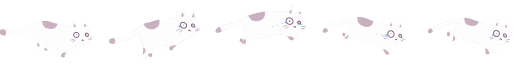
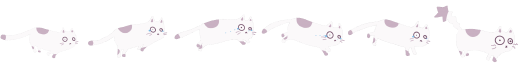
updated the spritesheet

diff --git a/src/scenes/PreloaderScene.ts b/src/scenes/PreloaderScene.ts
@@ -9,8 +9,8 @@ export default class Preloader extends Phaser.Scene {
     this.load.image('platform', 'assets/img/ground.png');
     this.load.image('layer-meme', 'assets/img/layer-meme.png');
     this.load.spritesheet('poki', 'assets/img/poki.png', {
-      frameWidth: 104,
-      frameHeight: 72,
+      frameWidth: 86,
+      frameHeight: 64,
     });
 
     //this.cursors = this.input.keyboard.createCursorKeys();

diff --git a/src/anims/poki.js b/src/anims/poki.js
@@ -5,4 +5,11 @@ export default function createPokiAnims(anims) {
     frameRate: 15,
     repeat: -1,
   });
+
+  anims.create({
+    key: 'die',
+    frames: anims.generateFrameNumbers('poki', { start: 4, end: 5 }),
+    frameRate: 15,
+    repeat: -1,
+  });
 }

diff --git a/src/scenes/GameOverScene.ts b/src/scenes/GameOverScene.ts
@@ -1,7 +1,5 @@
 import Phaser from 'phaser';
 
-import createPokiAnims from '../anims/poki.js';
-
 export default class Gameover extends Phaser.Scene {
   cursors: Phaser.Types.Input.Keyboard.CursorKeys;
   constructor() {

diff --git a/src/scenes/GameScene.ts b/src/scenes/GameScene.ts
@@ -81,6 +81,7 @@ export default class Game extends Phaser.Scene {
     }
 
     if (this.player.y > 450) {
+      //this.player.anims.play('die', true);
       this.scene.start('gameover');
     }
   }
